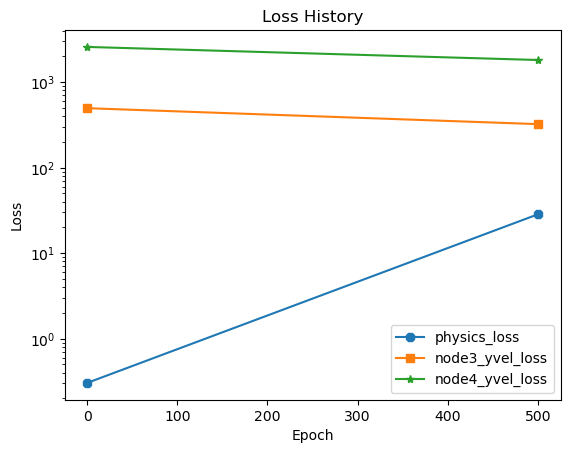
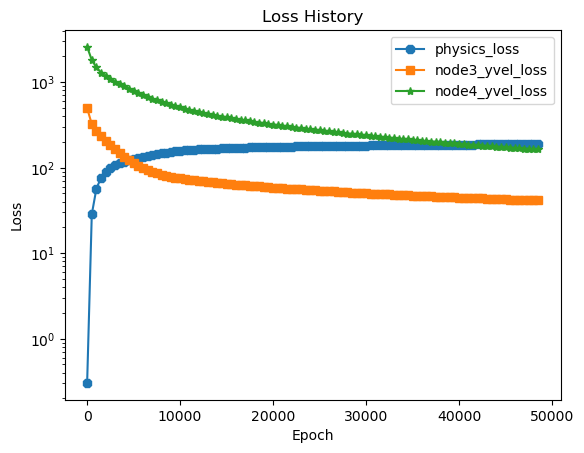
adjust weights

diff --git a/utils.py b/utils.py
@@ -33,12 +33,15 @@ def make_training_plot(
         file_path = os.path.join(folder_path, file_name)
         image = imageio.imread(file_path)
         frames.append(image)
-        os.unlink(file_path)
 
     # Save the frames as a GIF file
     imageio.mimsave(
         output_path, frames, duration=duration
     )  # Adjust the duration as desired
+
+    for file_name in file_names:
+        file_path = os.path.join(folder_path, file_name)
+        os.unlink(file_path)
 
 
 def make_loss_plot(loss_history: dict[str:list], output_path="media/loss_plot.png"):

diff --git a/execute.py b/execute.py
@@ -102,7 +102,7 @@ optimizer = torch.optim.Adam(list(model.parameters()), lr=1e-2)
 model.compile(
     optimizer,
     callbacks=[epoch_logger, loss_logger, plotter],
-    loss_weights=[1e-10, 1, 1],
+    loss_weights=[1e-11, 1, 1e-1],
     lr_scheduler=torch.optim.lr_scheduler.ReduceLROnPlateau(
         optimizer=optimizer, factor=0.1, patience=10000, min_lr=1e-6
     ),
